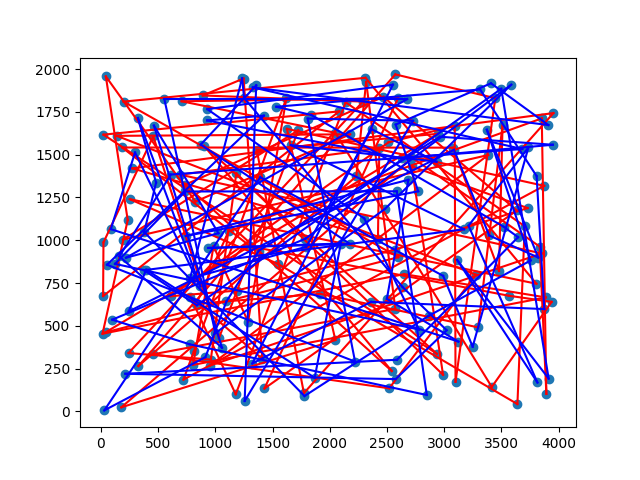
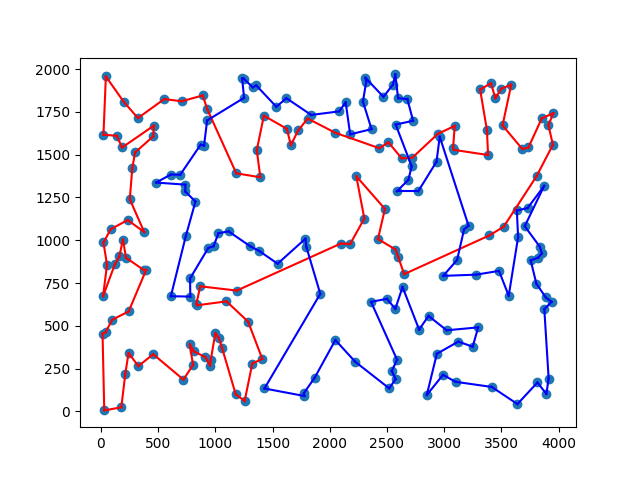
lab5 - sprawko kod prawie done

Changed region(s): [[0.1562, 0.1562, 0.875, 0.875]]

diff --git a/Lab5 - Ewolucyjny/sprawozdanie.tex b/Lab5 - Ewolucyjny/sprawozdanie.tex
@@ -110,13 +110,13 @@ Opisy tych metod znajdują się w poprzednim sprawozdaniu.
 \hline
 \texttt{LNS bez LS} & 30980 & 31801.6 & 33356 & 272.005 & 272.142 & 272.295 & 35672.0 \\
 \hline
-\texttt{HAE} & 00 & 00.0 & 00 & 00.00 & 00.00 & 00.00 & 00.00 \\
+\texttt{HAE} &  31418 & 33897.3 & 36636 & 269.287 & 269.287 & 269.288 & 692612 \\
 \hline
-\texttt{HAE +M} & 00 & 00.0 & 00 & 00.00 & 00.00 & 00.00 & 00.00 \\
+\texttt{HAE +M} & 30765 & 32818.3 & 34391 & 269.287 & 269.287 & 269.288 & 773693 \\
 \hline
-\texttt{HAE +LS} & 00 & 00.0 & 00 & 00.00 & 00.00 & 00.00 & 00.00 \\
+\texttt{HAE +LS} & 30310 & 31058.1 & 31661 & 269.287 & 269.295 & 269.302 & 14200.9 \\
 \hline
-\texttt{HAE +M +LS} & 00 & 00.0 & 00 & 00.00 & 00.00 & 00.00 & 00.00 \\
+\texttt{HAE +M +LS} & 29975 & 30872.7 & 31499 & 269.287 & 269.296 & 269.306 & 12946.9 \\
 \hline
 \end{tabular}
 }
@@ -139,20 +139,18 @@ Opisy tych metod znajdują się w poprzednim sprawozdaniu.
 \hline
 \texttt{LNS bez LS} & 30980 & 31801.6 & 33356 & 272.005 & 272.142 & 272.295 & 35672.0 \\
 \hline
-\texttt{HAE} & 00 & 00.0 & 00 & 00.00 & 00.00 & 00.00 & 00.00 \\
+\texttt{HAE} & 32389 & 34070.3 & 34951 & 279.947 & 279.948 & 279.948 & 699911  \\
 \hline
-\texttt{HAE +M} & 00 & 00.0 & 00 & 00.00 & 00.00 & 00.00 & 00.00 \\
+\texttt{HAE +M} & 31383 & 33151.2 & 36564 & 279.947 & 279.947 & 279.948 & 620006 \\
 \hline
-\texttt{HAE +LS} & 00 & 00.0 & 00 & 00.00 & 00.00 & 00.00 & 00.00 \\
+\texttt{HAE +LS} & 31169 & 31873.7 & 32595 & 279.947 & 279.957 & 279.966 & 14551.9 \\
 \hline
-\texttt{HAE +M +LS} & 00 & 00.0 & 00 & 00.00 & 00.00 & 00.00 & 00.00 \\
+\texttt{HAE +M +LS} & 30604 & 31231 & 31837 & 279.949 & 279.959 & 279.975 & 12954.5 \\
 \hline
 \end{tabular}
 }
 \caption{Wyniki dla \texttt{kroB200}}\label{tab:table2}
 \end{table}
-
-
 
 \subsection{Wizualizacja wyników}\label{subsec:wizualizacja-wynikow}
 
@@ -212,13 +210,13 @@ Opisy tych metod znajdują się w poprzednim sprawozdaniu.
 \begin{figure}[H]
     \begin{minipage}[t]{0.45\textwidth}
         \centering
-        \includegraphics[width=\linewidth]{best_paths/kroA200/LNS_bez}
+        \includegraphics[width=\linewidth]{best_paths/kroA200/LNS_no_LS}
         \caption{kroA200, losowy start}
     \end{minipage}
     \hfill
     \begin{minipage}[t]{0.45\textwidth}
         \centering
-        \includegraphics[width=\linewidth]{best_paths/kroB200/LNS_bez}
+        \includegraphics[width=\linewidth]{best_paths/kroB200/LNS_no_LS}
         \caption{kroB200, losowy start}
     \end{minipage}\label{fig:figure4}
 \end{figure}
@@ -244,13 +242,13 @@ Opisy tych metod znajdują się w poprzednim sprawozdaniu.
 \begin{figure}[H]
     \begin{minipage}[t]{0.45\textwidth}
         \centering
-        \includegraphics[width=\linewidth]{best_paths/kroA200/HAE}
+        \includegraphics[width=\linewidth]{best_paths/kroA200/HAE+Mutation}
         \caption{kroA200, losowy start}
     \end{minipage}
     \hfill
     \begin{minipage}[t]{0.45\textwidth}
         \centering
-        \includegraphics[width=\linewidth]{best_paths/kroB200/HAE}
+        \includegraphics[width=\linewidth]{best_paths/kroB200/HAE+Mutation}
         \caption{kroB200, losowy start}
     \end{minipage}\label{fig:figure6}
 \end{figure}
@@ -260,13 +258,13 @@ Opisy tych metod znajdują się w poprzednim sprawozdaniu.
 \begin{figure}[H]
     \begin{minipage}[t]{0.45\textwidth}
         \centering
-        \includegraphics[width=\linewidth]{best_paths/kroA200/HAE}
+        \includegraphics[width=\linewidth]{best_paths/kroA200/HAE+LS}
         \caption{kroA200, losowy start}
     \end{minipage}
     \hfill
     \begin{minipage}[t]{0.45\textwidth}
         \centering
-        \includegraphics[width=\linewidth]{best_paths/kroB200/HAE}
+        \includegraphics[width=\linewidth]{best_paths/kroB200/HAE+LS}
         \caption{kroB200, losowy start}
     \end{minipage}\label{fig:figure7}
 \end{figure}
@@ -277,13 +275,13 @@ Opisy tych metod znajdują się w poprzednim sprawozdaniu.
 \begin{figure}[H]
     \begin{minipage}[t]{0.45\textwidth}
         \centering
-        \includegraphics[width=\linewidth]{best_paths/kroA200/HAE}
+        \includegraphics[width=\linewidth]{best_paths/kroA200/HAE+Mutation+LS}
         \caption{kroA200, losowy start}
     \end{minipage}
     \hfill
     \begin{minipage}[t]{0.45\textwidth}
         \centering
-        \includegraphics[width=\linewidth]{best_paths/kroB200/HAE}
+        \includegraphics[width=\linewidth]{best_paths/kroB200/HAE+Mutation+LS}
         \caption{kroB200, losowy start}
     \end{minipage}\label{fig:figure8}
 \end{figure}
@@ -291,9 +289,10 @@ Opisy tych metod znajdują się w poprzednim sprawozdaniu.
 
 \section{Wnioski i analiza wyników}\label{sec:wnioski}
 
-Wnioski, wnioski, wnioski, wnioski, tu serio są wnioski.
-Bardzo dużo wniosków.
-Patrz, jakie super wnioski!
+Na podstawie wyników eksperymentu można zauważyć że HAE (Hybrydowy Algorytm Ewolucyjny)
+osiągnął wyniki porównywalne z najlepszą z metod badanych w poprzednim sprawozdaniu, czyli z LNS (Large Neighbourhood Search).
+Kluczowe w uzyskaniu lepszego wyniku jest jednak zastosowanie zarówno mutacji jak i lokalnego przeszukiwania,
+bez tych dodatków HAE w porównaniu wypada gorzej od LNS oraz ILS (Iterated Local Search).
 
 
 \section{Link do repozytorium}\label{sec:link-do-repo}
